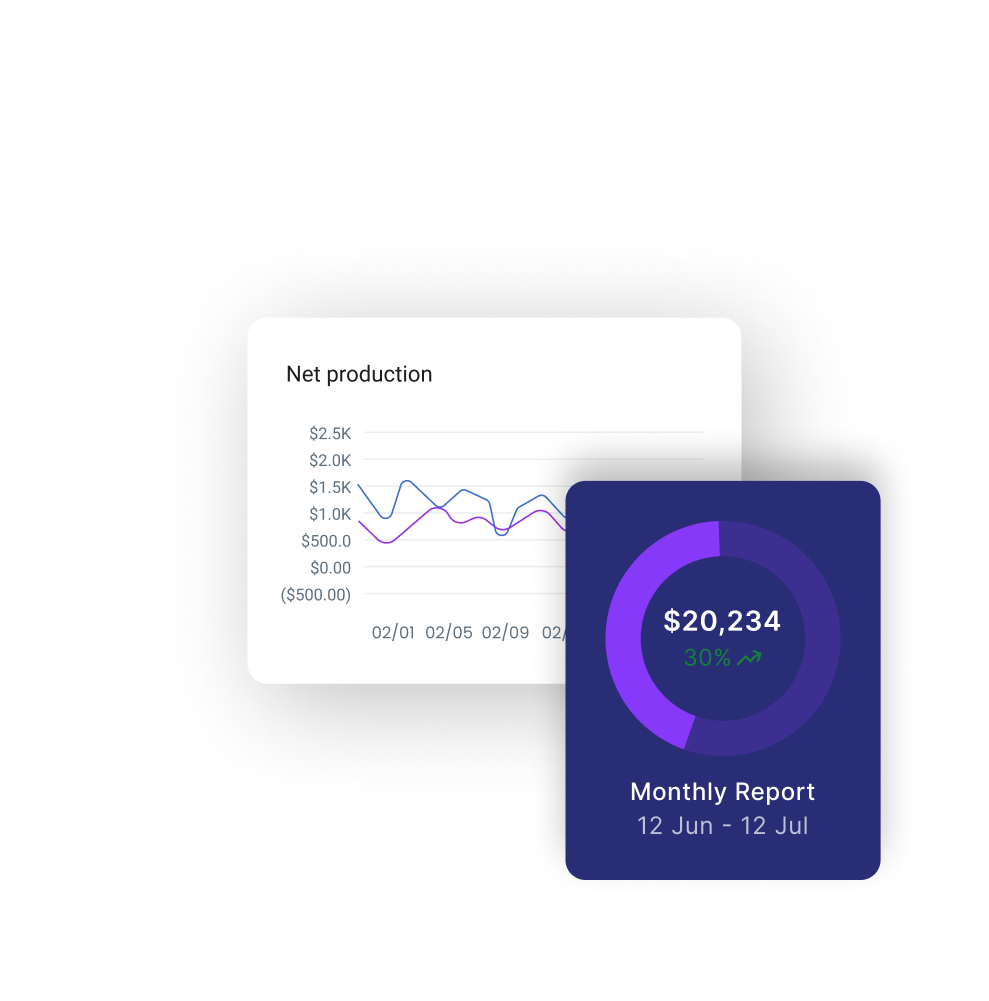
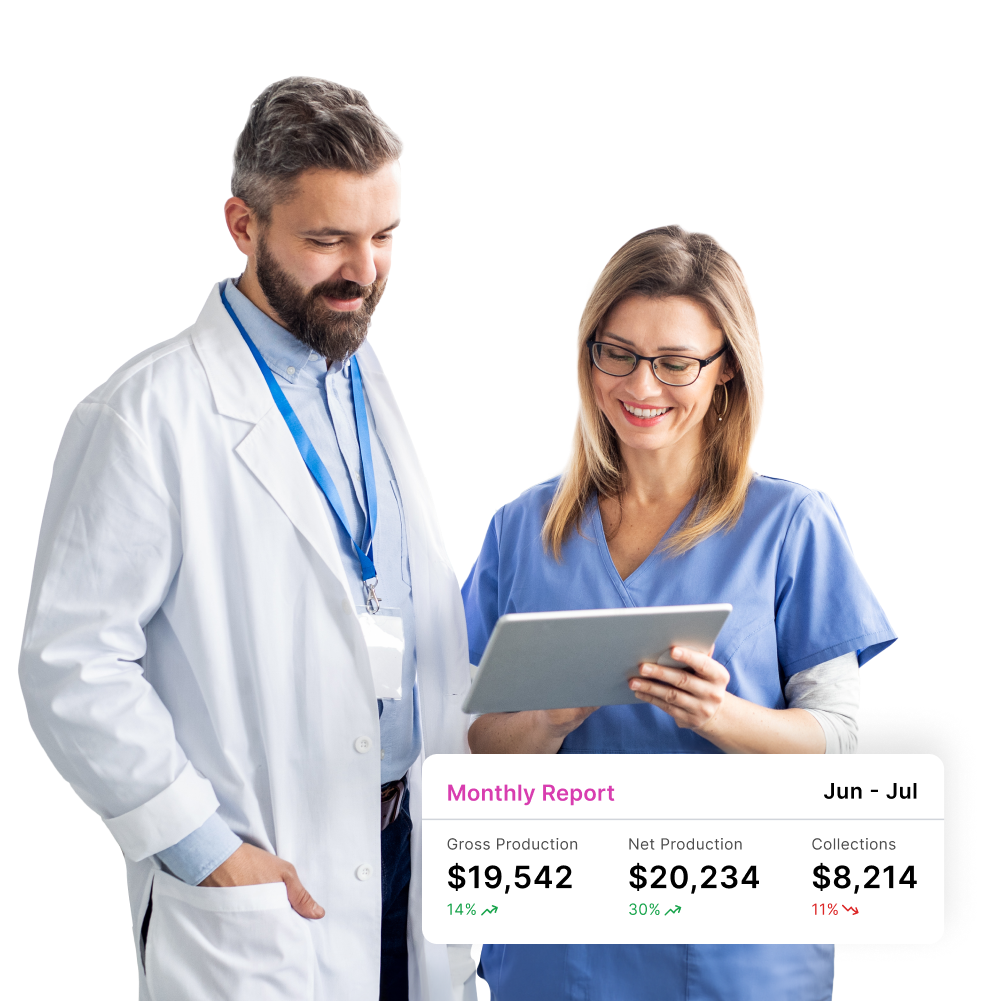
ADD maga prodent

diff --git a/src/components/CustomerSection.tsx b/src/components/CustomerSection.tsx
@@ -9,17 +9,17 @@ export default function CustomerSection({ customers }) {
   return (
     <Section
       id="partners-section"
-      className="pt-16 pb-20 bg-[#EDE1FE] flex-col justify-start items-center gap-6 "
+      className="py-16 bg-[#EDE1FE] flex-col justify-start items-center gap-6 "
     >
       <Container className="flex flex-col items-center gap-16">
-        <div className="w-full flex flex-col justify-center items-center gap-10  ">
-          <div className="md:w-1/2 text-center font-semibold">
-            Trusted by multi-location DSOs across the US
-          </div>
-          <div className="grid grid-cols-1 md:grid-cols-2 xl:grid-cols-4 gap-8">
-            {customers?.map((customer, index) => {
+        <div className="w-full flex flex-col xl:flex-col justify-center items-center gap-10  ">
+          {/* <div className="md:w-1/2 text-center font-semibold">
+            Trusted by dental practices across the US.
+          </div> */}
+          <div className="flex flex-wrap justify-center max-w-5xl gap-8">
+            {partnerList?.map((partner, index) => {
               return (
-                <div key={index} className="w-full flex ">
+                <div key={index} className="w-72">
                   <ImageLoader
                     className="flex justify-center h-20 w-full bg-white rounded-lg "
                     imageClassName="!object-contain h-20 w-auto"

diff --git a/src/components/HeroSection.tsx b/src/components/HeroSection.tsx
@@ -39,10 +39,10 @@ const HeroContent = ({ content, ctaBtnUrl }) => {
           <H1 className="text-center text-white font-medium 2xl:px-20">
             {content?.heroTitleStatic}
           </H1>
-          <WordRotate
+          {/* <WordRotate
             className="md:text-5xl text-4xl text-ellipsis font-semibold text-[#f768d1] text-center "
             words={content?.heroTitleDynamic}
-          />
+          /> */}
         </div>
 
         {/* Description */}
@@ -81,7 +81,7 @@ const HeroSection = ({ data, ctaBtnUrl }) => {
           <Image
             width={600}
             height={600}
-            src={'/hero-left.png'}
+            src={'/hero-left.webp'}
             alt="hero-left"
           />
         </div>
@@ -94,7 +94,7 @@ const HeroSection = ({ data, ctaBtnUrl }) => {
           <Image
             width={600}
             height={600}
-            src={'/hero-right.png'}
+            src={'/hero-right.webp'}
             alt="hero-left"
           />
         </div>

diff --git a/src/components/common/Footer.tsx b/src/components/common/Footer.tsx
@@ -47,8 +47,8 @@ const Footer = ({data}) => {
   return (
     <Section id="footer" className={'bg-[#02024a]'}>
       <Container className="flex justify-center py-4 text-white ">
-        <div className=" pt-12 md:pt-24 pb-8 bg-[#02024a] flex-col justify-center items-start gap-12 inline-flex ">
-          <TopSection ctaName={data?.heroSectionData?.ctaName} data={data?.siteSettings?.demoBtnUrl} />
+        <div className="w-full p-8">
+          {/* <TopSection ctaName={data?.heroSectionData?.ctaName} data={data?.siteSettings?.demoBtnUrl} /> */}
           <BottomSection />
         </div>
       </Container>

diff --git a/src/components/AboutUsSection.tsx b/src/components/AboutUsSection.tsx
@@ -18,7 +18,7 @@ const AboutUsSection = ({ about, founderDetails }) => {
   return (
     <Section
       id="about-us-section"
-      className="py-12 md:py-24 bg-[#D83DAF] bg-grid-pattern bg-contain bg-no-repeat bg-right"
+      className="py-12 md:py-24 bg-[#6220c3] bg-grid-pattern bg-contain bg-no-repeat bg-right"
     >
       <Container className="flex flex-col items-center gap-10 w-full ">
         <div>

diff --git a/src/components/ServicesSection.tsx b/src/components/ServicesSection.tsx
@@ -20,7 +20,7 @@ const ServicesSection = ({ data }) => {
           </div>
         </div>
         <div className="flex flex-col gap-16 w-full">
-          {data.map((benefit: any, index: number) => (
+          {data?.map((benefit: any, index: number) => (
             <RichImage key={index} index={index} item={benefit} />
           ))}
         </div>

diff --git a/src/components/common/TestimonialCarousel.tsx b/src/components/common/TestimonialCarousel.tsx
@@ -4,6 +4,8 @@ import TestimonialCard from './TestimonialCard'
 
 
 const TestimonialCarousel = ({ testimonials }) => {
+
+  if (!testimonials) return null
   const testimonialLength = testimonials.length
 
   if (testimonialLength == 1) {
